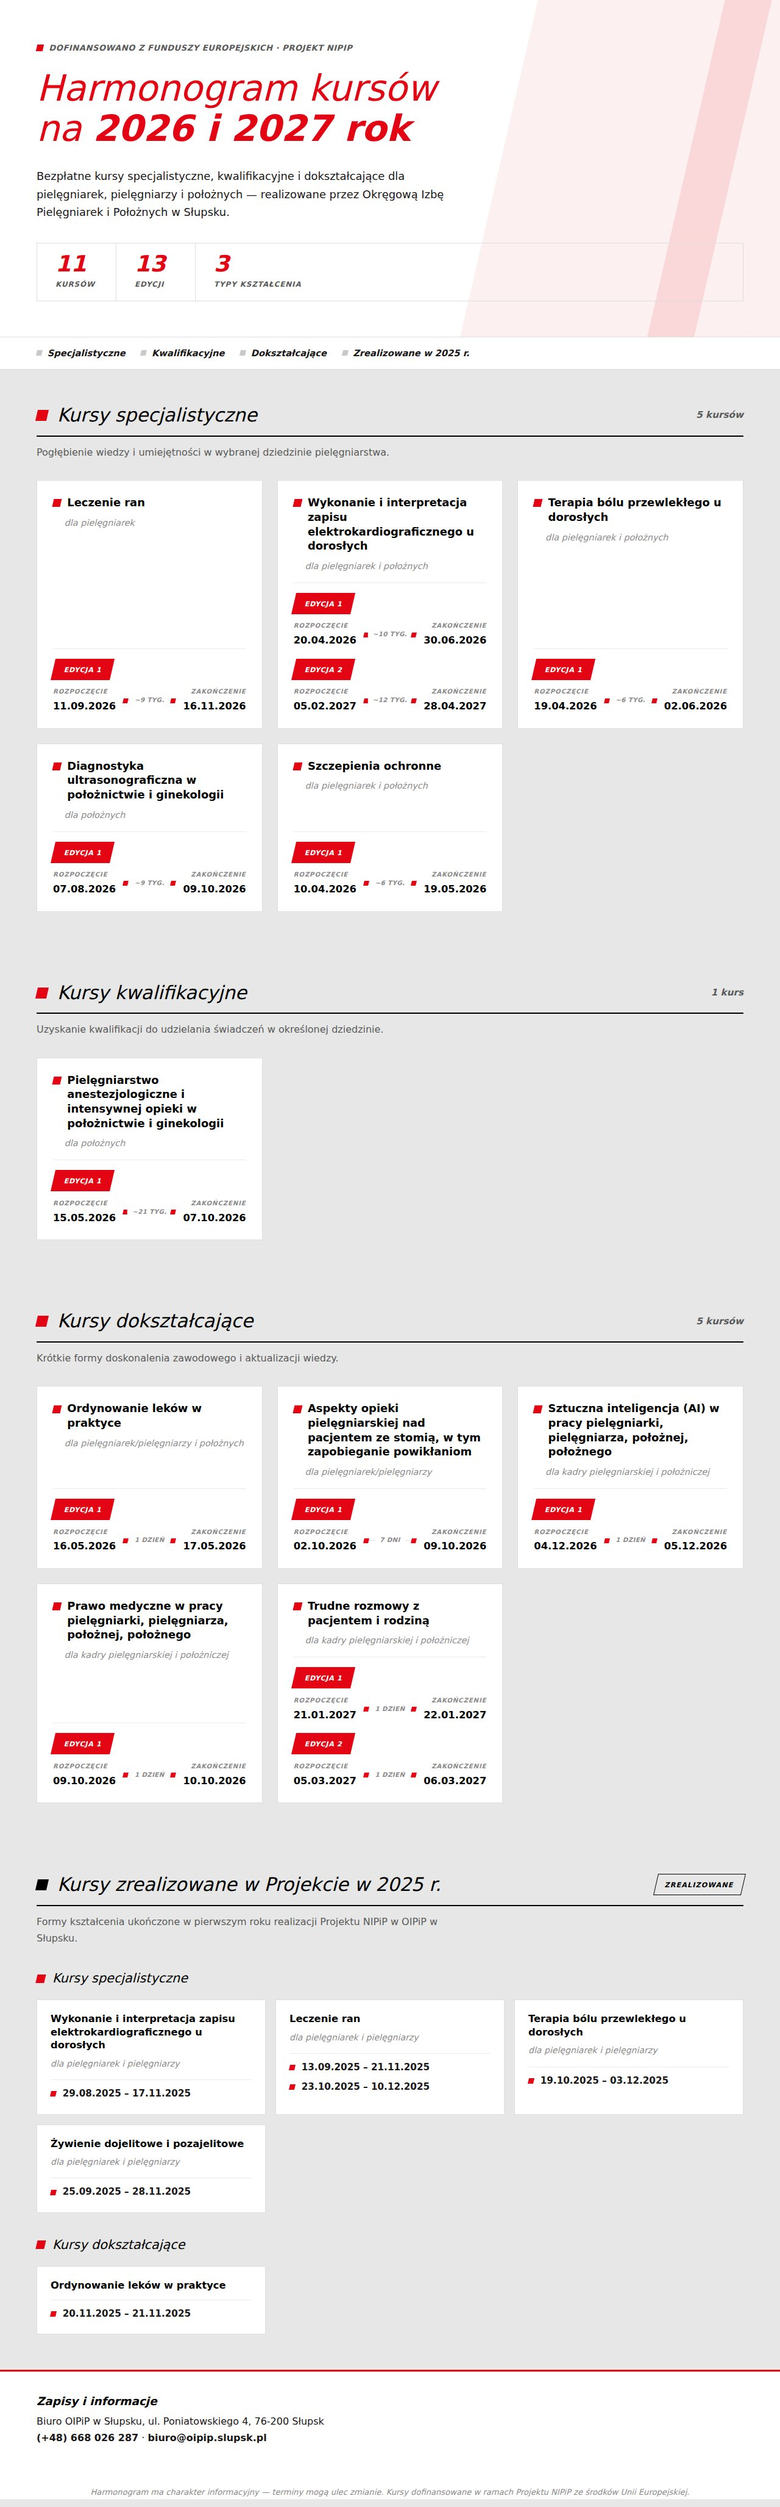
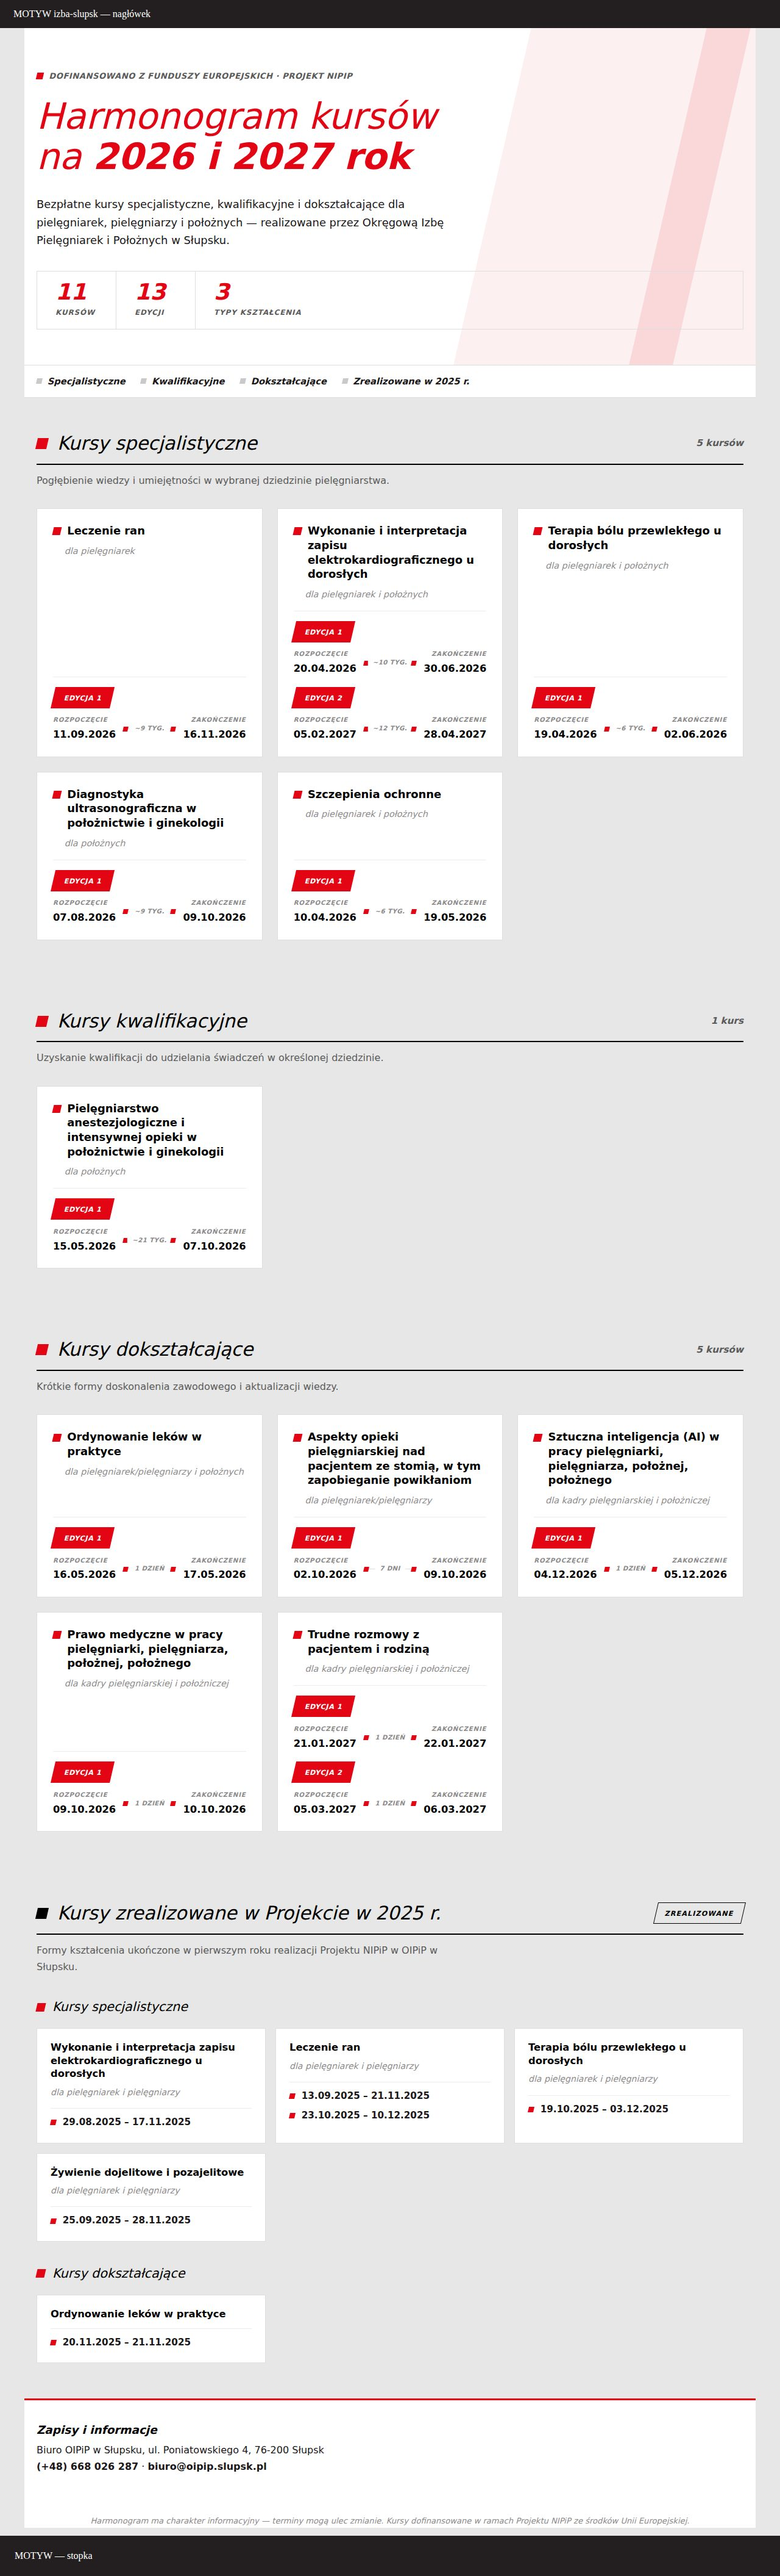
Snippet WP: poprawiona stopka kontaktowa (nh-contact zamiast starego .foot)

diff --git a/wordpress/nipip-harmonogram.html b/wordpress/nipip-harmonogram.html
@@ -377,9 +377,15 @@
         <div class="nh-runs"><span class="nh-run"><span class="nh-mark"></span>20.11.2025 – 21.11.2025</span></div>
       </div></div></div></section>
 </main>
-<div class="foot" id="zapisy"><div class="nh-wrap">
-<div><strong>Zapisy i informacje</strong>Biuro OIPiP w Słupsku, ul. Poniatowskiego 4<br>76-200 Słupsk</div>
-<div><strong>Kontakt</strong><a href="tel:+48668026287">(+48) 668 026 287</a><br><a href="mailto:biuro@oipip.slupsk.pl">biuro@oipip.slupsk.pl</a></div>
-<div class="copy">Harmonogram ma charakter informacyjny — terminy mogą ulec zmianie. Kursy dofinansowane w ramach Projektu NIPiP ze środków UE.</div>
-</div></div>
+<section class="nh-contact" id="zapisy">
+  <div class="nh-wrap">
+    <div class="nh-info">
+      <strong>Zapisy i informacje</strong>
+      Biuro OIPiP w Słupsku, ul. Poniatowskiego 4, 76-200 Słupsk<br>
+      <a href="tel:+48668026287">(+48) 668 026 287</a> · <a href="mailto:biuro@oipip.slupsk.pl">biuro@oipip.slupsk.pl</a>
+    </div>
+    <a class="nh-btn-skew" href="mailto:biuro@oipip.slupsk.pl"><span class="nh-mark" style="background:#fff;width:.7em;height:.7em"></span> Zapisz się na kurs</a>
+  </div>
+  <p class="nh-note">Harmonogram ma charakter informacyjny — terminy mogą ulec zmianie. Kursy dofinansowane w ramach Projektu NIPiP ze środków Unii Europejskiej.</p>
+</section>
 </div>
